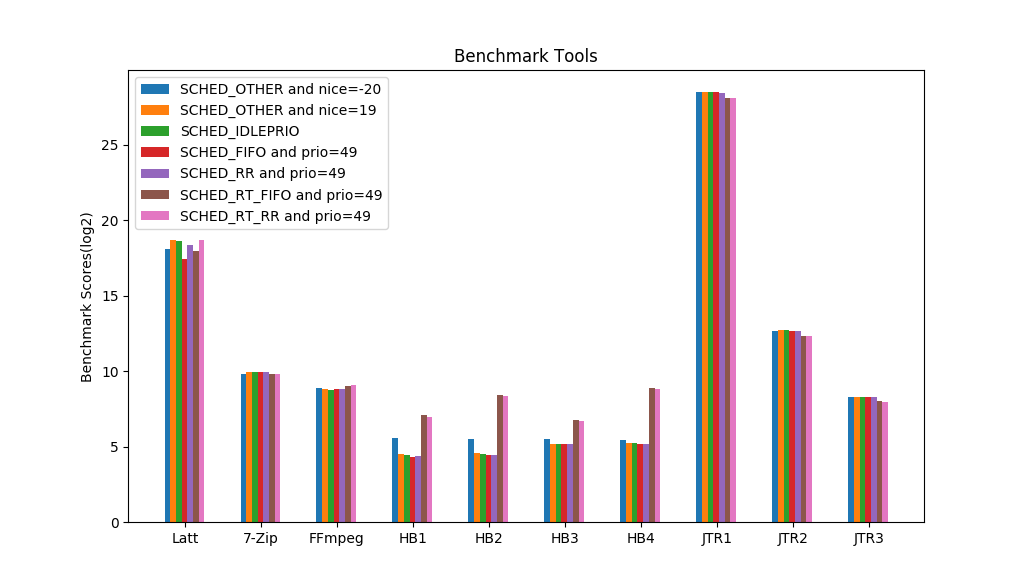
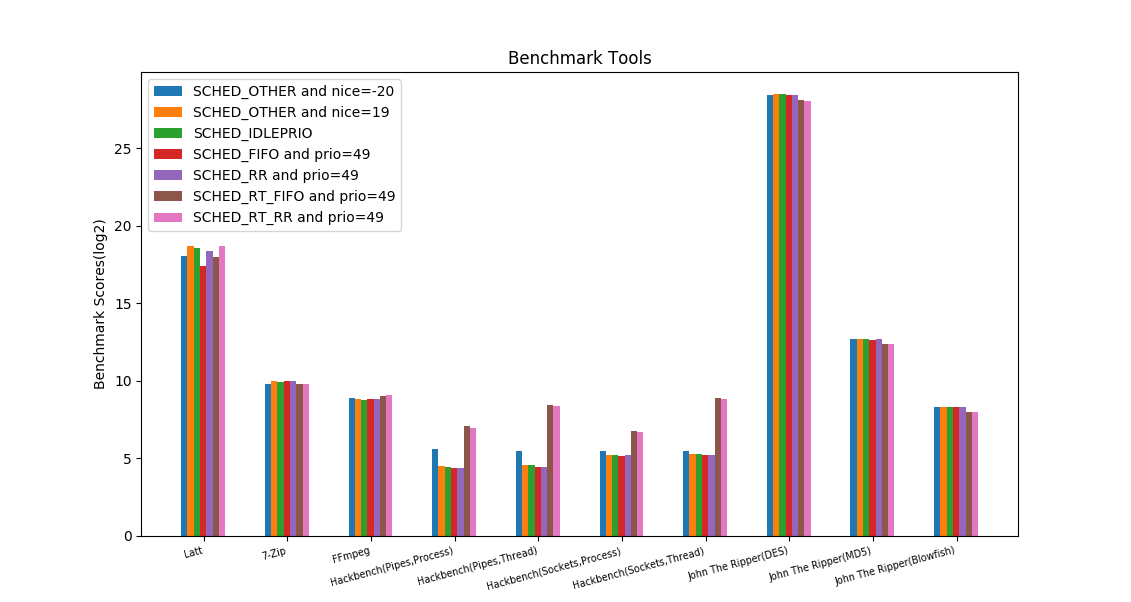
Updated the plot.py script

diff --git a/scripts/parser/policy/plot.py b/scripts/parser/policy/plot.py
@@ -18,13 +18,15 @@ for name in score_dict:
 x_name[1] = "7-Zip"
 
 N = len(x_name) # this is the number of 
-#print(x_name)
+
+#latt, ms, less is better
 latt_p = [] # the policies of latt
 latt_score = [] # the scores of latt
 for item in score_dict['Latt']:
     latt_p.append(item[1])
     latt_score.append(int(item[2]))
 
+#c-ray, s, less is better
 cray_p = [] # the policies of C-Ray
 cray_score = [] # the scores of C-Ray
 for item in score_dict['C-Ray']:
@@ -32,6 +34,7 @@ for item in score_dict['C-Ray']:
     cray_p.append(item[1])
     cray_score.append(float(item[2]))
 
+#7-zip, MIPS, more is better
 sevenzip_p = [] # the policies of 7-zip
 sevenzip_score = [] # the scores of 7-zip
 for item in score_dict['7-Zip Compression']:
@@ -39,7 +42,7 @@ for item in score_dict['7-Zip Compression']:
     sevenzip_p.append(item[1])
     sevenzip_score.append(int(item[2]))
 
-# hackbench has 4 configs
+# hackbench has 4 configs, s, less is better
 hackbench_c = [] # configs of Hackbench
 hackbench_p = [] # the policies of Hackbench
 hackbench_score = [] # the scores of Hackbench
@@ -50,8 +53,8 @@ for i, item in enumerate(score_dict['Hackbench']):
     hackbench_p.append(item[1])
     hackbench_score.append(float(item[2]))
 #print(hackbench_c)
-#print(score_dict['Hackbench'])
-print(hackbench_score)
+
+#ffmpeg, s, less is better
 ff_p = [] # the policies of FFmpeg
 ff_score = [] # the scores of FFmpeg
 for item in score_dict['FFmpeg']:
@@ -59,7 +62,7 @@ for item in score_dict['FFmpeg']:
     ff_p.append(item[1])
     ff_score.append(float(item[2]))
 
-#john the ripper has 3 configs
+#john the ripper has 3 configs, REAL C/S, more is better
 jtr_c = [] # the configs of John The Ripper
 jtr_p = [] # the policies of John The Ripper
 jtr_score = [] # the scores of John The Ripper
@@ -75,13 +78,13 @@ for i, item in enumerate(score_dict['John The Ripper']):
 # modify x_name with configs
 #print(x_name)
 x_name[2], x_name[3] = x_name[3], x_name[2]
-x_name[3] = "HB1"
-x_name[4] = "JTR1"
-x_name.append("HB3")
-x_name.append("HB4")
-x_name.append("HB2")
-x_name.append("JTR2")
-x_name.append("JTR3")
+x_name[3] = "Hackbench\n(Pipes,Process)"
+x_name[4] = "John The Ripper\n(DES)"
+x_name.append("Hackbench\n(Sockets,Process)")
+x_name.append("Hackbench\n(Sockets,Thread)")
+x_name.append("Hackbench\n(Pipes,Thread)")
+x_name.append("John The Ripper\n(MD5)")
+x_name.append("John The Ripper\n(Blowfish)")
 x_name[7], x_name[4] = x_name[4], x_name[7]
 #print(x_name)
 
@@ -91,25 +94,25 @@ num_config = len(latt_score)
 #print(num_config)
 for i in range(0,num_config):
     temp_list = []
-    temp_list.append(math.log2(latt_score[i]))
-    temp_list.append(math.log2(sevenzip_score[i]))
-    temp_list.append(math.log2(ff_score[i]))
-    temp_list.append(math.log2(hackbench_score[i]))
-    temp_list.append(math.log2(jtr_score[i]))
-    temp_list.append(math.log2(hackbench_score[i+14]))
-    temp_list.append(math.log2(hackbench_score[i+21]))
-    temp_list.append(math.log2(hackbench_score[i+7]))
-    temp_list.append(math.log2(jtr_score[i+7]))
-    temp_list.append(math.log2(jtr_score[i+14]))
+    temp_list.append(math.log(latt_score[i],2))
+    temp_list.append(math.log(sevenzip_score[i],2))
+    temp_list.append(math.log(ff_score[i],2))
+    temp_list.append(math.log(hackbench_score[i],2))
+    temp_list.append(math.log(jtr_score[i],2))
+    temp_list.append(math.log(hackbench_score[i+14],2))
+    temp_list.append(math.log(hackbench_score[i+21],2))
+    temp_list.append(math.log(hackbench_score[i+7],2))
+    temp_list.append(math.log(jtr_score[i+7],2))
+    temp_list.append(math.log(jtr_score[i+14],2))
     temp_list[4], temp_list[7] = temp_list[7], temp_list[4]
     conf_list1.append(temp_list)
-print(conf_list1)
-print(len(conf_list1))
+#print(conf_list1)
+#print(len(conf_list1))
 
 # plotting
 #ind = np.arange(N+5)  # the x locations for the groups
 ind =  np.array([0,2,4,6,8,10,12,14,16,18])
-print(ind)
+#print(ind)
 width = 0.15      # the width of the bars
 
 fig, ax = plt.subplots()
@@ -118,16 +121,17 @@ for i in range(0,num_config):
 
 
 # add some text for labels, title and axes ticks
-ax.set_ylabel('Benchmark Scores(log2)')
-ax.set_title('Benchmark Tools')
+ax.set_ylabel('Benchmark Scores')
+ax.set_title('scheduler-comparison')
 ax.set_xticks(ind + width / (N+5))
 #ax.set_xticklabels(('Latt', 'C-Ray', '7-Zip', 'Hackbench', 'FFmpeg', 'John The Ripper'))
-ax.set_xticklabels(x_name)
+ax.set_xticklabels(x_name,size='x-small',stretch='extra-condensed', rotation=20, ha='right')
 #ax.legend()
+ax.set_yscale('log',nonposy='clip')
 ax.legend(loc='best')
 #ax.legend((rects1[0], rects2[0], rects3[0], rects4[0], rects5[0]), ('b1', 'p2', 'p3', 'p4', 'p5'))
 
-'''
+
 def autolabel(rects):
     """
     Attach a text label above each bar displaying its height
@@ -140,7 +144,7 @@ def autolabel(rects):
 
 autolabel(rects1)
 autolabel(rects2)
-'''
+
 
 plt.show()
 

diff --git a/scripts/parser/policy/plot2.py b/scripts/parser/policy/plot2.py
@@ -4,39 +4,13 @@ XML parsing script for current, cpu usage, memory usage, temperature
 For class project 221 2017 winter
 
 '''
-import xml.etree.ElementTree as ET
 import matplotlib.pyplot as plt
 import matplotlib.mlab as mlab
 import numpy as np
+import math
+from retrive_info import *
 
-'''
-#tree = ET.parse('latt-test.xml')
-tree = ET.parse('phoronix-results.xml')
-root = tree.getroot()
-
-# Simple data to display in various forms
-x = np.linspace(0, 2 * np.pi, 400)
-y = np.sin(x ** 2)
-
-# Four axes, returned as a 2-d array
-f, axarr = plt.subplots(2, 2)
-axarr[0, 0].plot(x, y)
-axarr[0, 0].set_title('current')
-axarr[0, 1].scatter(x, y)
-axarr[0, 1].set_title('CPU usage')
-axarr[1, 0].plot(x, y ** 2)
-axarr[1, 0].set_title('memory usage')
-axarr[1, 1].scatter(x, y ** 2)
-axarr[1, 1].set_title('default')
-# Fine-tune figure; hide x ticks for top plots and y ticks for right plots
-plt.setp([a.get_xticklabels() for a in axarr[0, :]], visible=False)
-plt.setp([a.get_yticklabels() for a in axarr[:, 1]], visible=False)
-plt.show()
-'''
-
-test = np.array([1,2,3,4,5,6,5,4,3,5,5,])
-t2 = np.array([2,2,6,4,5,6,5,4,3])
-
+print(bm_dict['cpu']['Latt'])
 fig = plt.figure(figsize=(10, 8))
 
 sub1 = fig.add_subplot(221) # equivalent to: plt.subplot(2, 2, 1)
